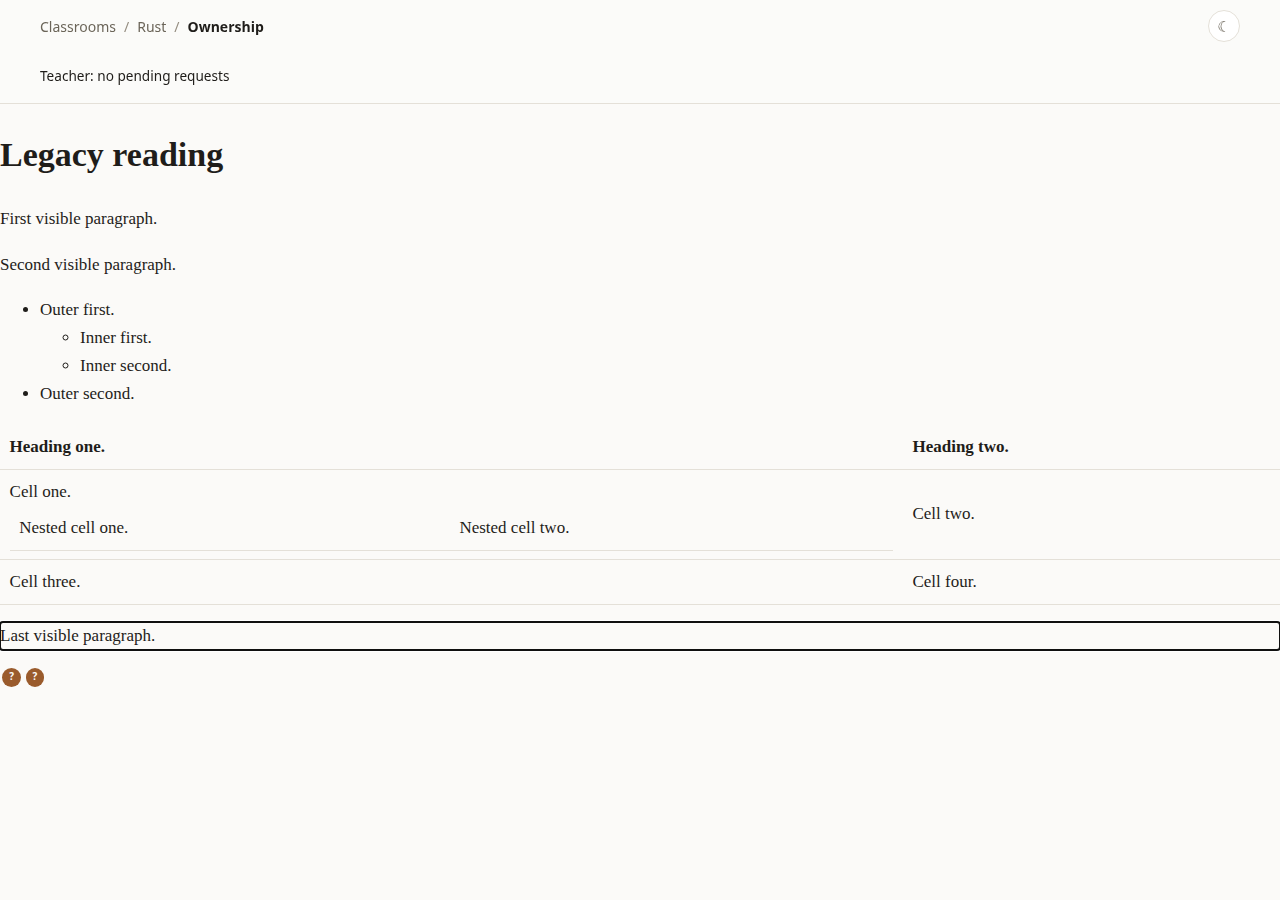
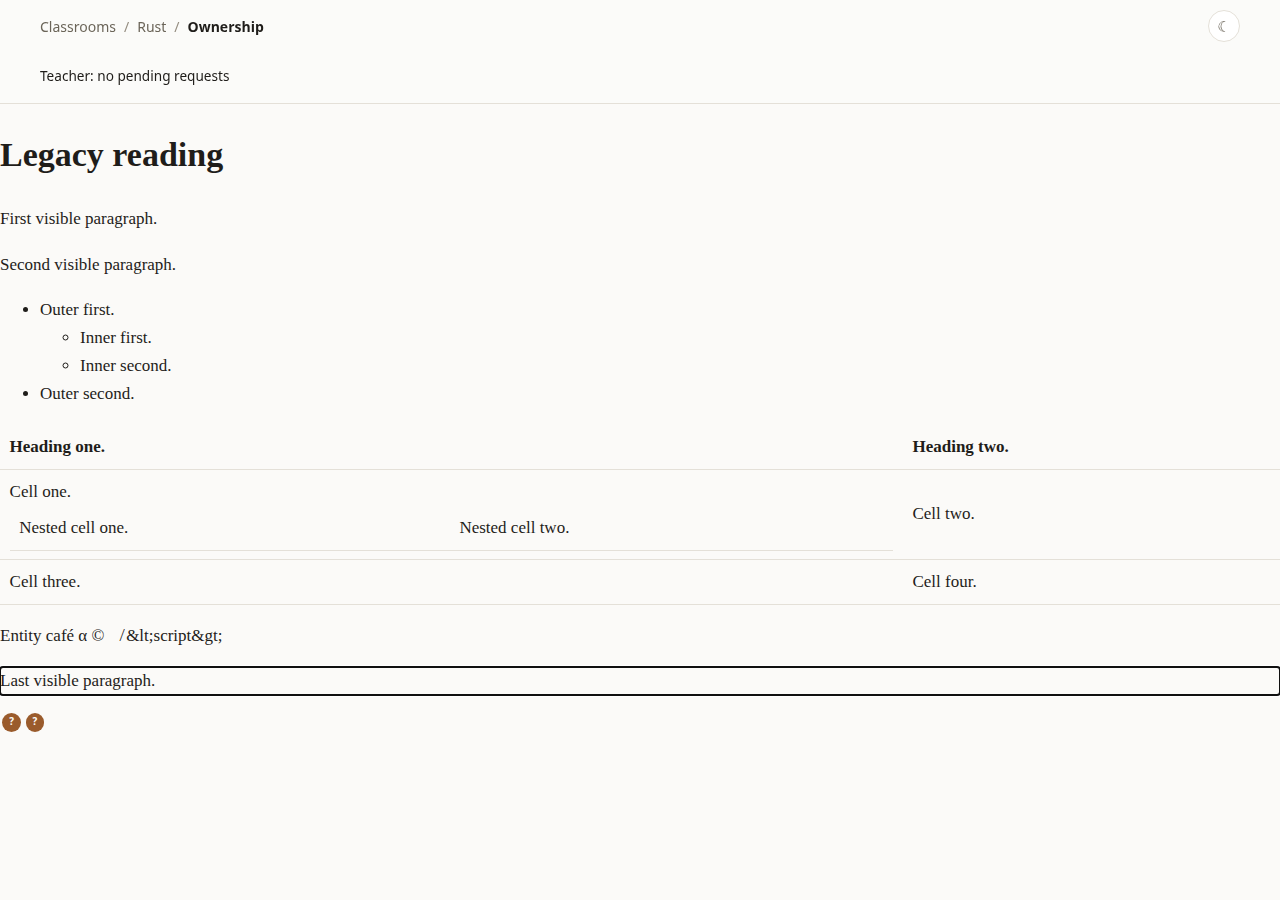
fix(classroom): Parse visible search text with maintained HTML semantics

Changed region(s): [[0.0, 0.6844, 1.0, 0.8089]]

diff --git a/src/search-passages.ts b/src/search-passages.ts
@@ -1,6 +1,7 @@
 /** Inert source parsing for public search. No DOM, scripts, learner code or file reads. */
 import { createHash } from "node:crypto";
-import { decodeHtmlAttribute, htmlAttributes, TAG_ATTRIBUTES } from "./authoring-html.ts";
+import { parse } from "parse5";
+import type { DefaultTreeAdapterTypes, ParserError } from "parse5";
 
 export interface SearchPassage {
   id: string;
@@ -58,22 +59,19 @@ const EXCLUDED = new Set([
   "iframe",
   "object",
 ]);
-// HTML optional end tags, not XML nesting. Scope boundaries keep nested lists,
-// tables and inert template contents from closing an outer source passage.
-const P_END = new Set(
-  "address article aside blockquote details dialog div dl fieldset figcaption figure footer form h1 h2 h3 h4 h5 h6 header hgroup hr main menu nav ol p pre search section table ul".split(
+// End tags the HTML parser may legitimately infer. Preserve the existing required
+// block/inert-element guards without turning extraction into an HTML validator.
+const OPTIONAL_END = new Set(
+  "html head body p li dt dd rt rp optgroup option colgroup caption thead tbody tfoot tr td th".split(
     " ",
   ),
 );
-const EOF_OPTIONAL = new Set(["html", "head", "body", "p"]);
+const MALFORMED_TOKEN =
+  /(?:attribute|eof-in-tag|eof-before-tag-name|eof-in-comment|incorrectly-opened-comment|unexpected-solidus-in-tag|end-tag-with-trailing-solidus)/;
 const RUNTIME =
   /(?:^|\s)(?:cl-(?:header|card-panel|ask-pill|badge-marker|term-pop|contract-error|diagram|teacher|teacher-notice|stepper-runtime|faded-runtime|code-runner|practice-feedback|q-verdict|quiz-footer|answer-report|order-controls|expected))(?:\s|$)/;
 export function canonicalText(text: string): string {
-  return decodeHtmlAttribute(text)
-    .replace(/&nbsp;/gi, " ")
-    .replace(/\s+/g, " ")
-    .trim()
-    .normalize("NFC");
+  return text.replace(/\s+/g, " ").trim().normalize("NFC");
 }
 
 /** Assign ids from canonical quoted text + duplicate occurrence, never source offsets.
@@ -85,110 +83,86 @@ export function searchPassages(html: string): { html: string; passages: SearchPa
     "",
   );
   html = html.replace(/ id="cl-search-[a-f0-9]{24}-[0-9]+"/g, "");
-  interface Node {
-    tag: string;
+  interface Segment {
     start: number;
-    skip: boolean;
     text: string;
-    block: boolean;
     attributeAt?: number;
   }
-  const root: Node = { tag: "@root", start: 0, skip: false, text: "", block: true };
-  const stack: Node[] = [root],
-    found: Array<{ start: number; text: string; attribute: boolean }> = [];
-  const tokens = new RegExp(
-    `<!--[\\s\\S]*?-->|<script\\b${TAG_ATTRIBUTES}>[\\s\\S]*?<\\/script\\s*>|<style\\b${TAG_ATTRIBUTES}>[\\s\\S]*?<\\/style\\s*>|<![^>]*>|<\\/?([a-z][\\w:-]*)\\b${TAG_ATTRIBUTES}>`,
-    "gi",
-  );
-  let cursor = 0;
-  const flush = (node: Node) => {
-    const text = canonicalText(node.text);
-    if (text && !node.skip) {
+  const found: Array<{ start: number; text: string; attribute: boolean }> = [];
+  const document = parse(html, {
+    sourceCodeLocationInfo: true,
+    scriptingEnabled: true,
+    onParseError(error: ParserError) {
+      if (MALFORMED_TOKEN.test(error.code)) throw new Error("Malformed content tag or attribute.");
+    },
+  });
+  const flush = (segment: Segment) => {
+    const text = canonicalText(segment.text);
+    if (text)
       found.push({
-        start: node.attributeAt ?? node.start,
+        start: segment.attributeAt ?? segment.start,
         text,
-        attribute: node.attributeAt !== undefined,
+        attribute: segment.attributeAt !== undefined,
       });
-    }
-    node.attributeAt = undefined;
-    node.text = "";
+    segment.attributeAt = undefined;
+    segment.text = "";
   };
-  const add = (text: string, offset: number) => {
-    if (stack.some((n) => n.skip)) return;
-    if (/<!--|<\/?[a-z][\w:-]*(?:\s|>|\/)/i.test(text))
-      throw new Error("Malformed content tag or attribute.");
-    const node = [...stack].reverse().find((n) => n.block)!;
-    if (!node.text) node.start = offset;
-    node.text += text;
-  };
-  const closeFrom = (index: number) => {
-    for (const node of stack.splice(index)) if (node.block) flush(node);
-  };
-  const closeInScope = (names: string[], boundaries: string[]) => {
-    for (let i = stack.length - 1; i > 0; i--) {
-      const tag = stack[i].tag;
-      if (names.includes(tag)) {
-        closeFrom(i);
-        return;
-      }
-      if (boundaries.includes(tag) || EXCLUDED.has(tag)) return;
-    }
-  };
-  for (const token of html.matchAll(tokens)) {
-    add(html.slice(cursor, token.index), cursor);
-    cursor = token.index + token[0].length;
-    if (!token[1]) continue;
-    const tag = token[1].toLowerCase();
-    if (token[0].startsWith("</")) {
-      const index = stack.map((n) => n.tag).lastIndexOf(tag);
-      if (index < 1) continue;
-      // An unrelated closing tag must never escape an unterminated inert subtree.
-      if (stack.slice(index + 1).some((n) => EXCLUDED.has(n.tag) && n.tag !== "option"))
-        throw new Error("Unclosed content element.");
-      closeFrom(index);
-    } else {
-      if (P_END.has(tag)) closeInScope(["p"], ["table", "td", "th", "button"]);
-      if (tag === "li") closeInScope(["li"], ["ul", "ol", "menu"]);
-      if (tag === "dt" || tag === "dd") closeInScope(["dt", "dd"], ["dl"]);
-      if (tag === "rt" || tag === "rp") closeInScope(["rt", "rp"], ["ruby"]);
-      if (tag === "td" || tag === "th") closeInScope(["td", "th"], ["tr", "table"]);
-      if (tag === "tr") closeInScope(["tr"], ["table"]);
-      if (["tbody", "tfoot", "thead"].includes(tag))
-        closeInScope(["thead", "tbody", "tfoot"], ["table"]);
-      if (["colgroup", "thead", "tbody", "tfoot", "tr"].includes(tag))
-        closeInScope(["caption", "colgroup"], ["table"]);
+  // Validate excluded trees too. A missing template/raw-text close is an error,
+  // never a reason to reveal its contents or silently return a partial index.
+  const validate = (node: DefaultTreeAdapterTypes.Node): void => {
+    if ("tagName" in node) {
+      const location = node.sourceCodeLocation;
       if (
-        tag === "body" ||
-        (!EXCLUDED.has(tag) && !["html", "title", "meta", "link", "base"].includes(tag))
+        location?.startTag &&
+        !location.endTag &&
+        (BLOCKS.has(node.tagName) || EXCLUDED.has(node.tagName)) &&
+        !VOID.has(node.tagName) &&
+        !OPTIONAL_END.has(node.tagName) &&
+        !(
+          node.namespaceURI !== "http://www.w3.org/1999/xhtml" &&
+          /\/\s*>$/.test(html.slice(location.startOffset, location.startTag.endOffset))
+        )
       )
-        closeInScope(["head"], ["html"]);
-      const attrs = htmlAttributes(token[0]);
-      const skip =
-        stack.some((n) => n.skip) ||
-        EXCLUDED.has(tag) ||
-        RUNTIME.test(decodeHtmlAttribute(attrs.get("class") ?? "")) ||
-        /(?:\s)(?:hidden|data-cl-grade|data-cl-pretest-pending)(?=\s|=|\/?>)/i.test(
-          token[0].replace(/"[^"]*"|'[^']*'/g, '""'),
-        ) ||
-        attrs.get("aria-hidden") === "true";
-      const block = BLOCKS.has(tag);
-      if (block && !skip) flush([...stack].reverse().find((n) => n.block)!);
-      if (tag === "br") add(" ", cursor);
-      if (!VOID.has(tag) && !token[0].endsWith("/>"))
-        stack.push({
-          tag,
-          start: cursor,
-          skip,
-          text: "",
-          block,
-          attributeAt: block && !attrs.has("id") ? cursor - 1 : undefined,
-        });
+        throw new Error("Unclosed content element.");
+      if ("content" in node) validate(node.content as DefaultTreeAdapterTypes.DocumentFragment);
     }
-  }
-  add(html.slice(cursor), cursor);
-  if (stack.slice(1).some((n) => !EOF_OPTIONAL.has(n.tag)))
-    throw new Error("Unclosed content element.");
-  closeFrom(1);
+    if ("childNodes" in node) for (const child of node.childNodes) validate(child);
+  };
+  validate(document);
+  const walk = (node: DefaultTreeAdapterTypes.Node, segment: Segment): void => {
+    if ("value" in node) {
+      if (!segment.text) segment.start = node.sourceCodeLocation?.startOffset ?? 0;
+      segment.text += node.value;
+      return;
+    }
+    let own = segment;
+    if ("tagName" in node) {
+      const attrs = new Map(node.attrs.map((a) => [a.name, a.value]));
+      if (
+        EXCLUDED.has(node.tagName) ||
+        RUNTIME.test(attrs.get("class") ?? "") ||
+        ["hidden", "data-cl-grade", "data-cl-pretest-pending"].some((a) => attrs.has(a)) ||
+        attrs.get("aria-hidden") === "true"
+      )
+        return;
+      if (node.tagName === "br") segment.text += " ";
+      if (BLOCKS.has(node.tagName)) {
+        flush(segment);
+        own = {
+          start: node.sourceCodeLocation?.startOffset ?? 0,
+          text: "",
+          attributeAt:
+            !attrs.has("id") && node.sourceCodeLocation?.startTag
+              ? node.sourceCodeLocation.startTag.endOffset - 1
+              : undefined,
+        };
+      }
+    }
+    if ("childNodes" in node) for (const child of node.childNodes) walk(child, own);
+    if (own !== segment) flush(own);
+  };
+  const root: Segment = { start: 0, text: "" };
+  walk(document, root);
   flush(root);
   const occurrences = new Map<string, number>();
   const totals = new Map<string, number>();

diff --git a/scripts/e2e-search-browser.ts b/scripts/e2e-search-browser.ts
@@ -176,7 +176,7 @@ export async function verifySearchBrowser(artifacts: string | null): Promise<voi
     // Valid HTML optional closures must remain readable and resolve each sibling
     // passage independently, including nested list and table scopes.
     const optionalSource =
-      '<!doctype html><html lang="en"><head><meta charset="utf-8"><title>Legacy reading</title></head><body><h1>Legacy reading</h1><p>First visible paragraph.<p>Second visible paragraph.<ul><li>Outer first.<ul><li>Inner first.<li>Inner second.</ul><li>Outer second.</ul><table><thead><tr><th>Heading one.<th>Heading two.<tbody><tr><td>Cell one.<table><tr><td>Nested cell one.<td>Nested cell two.</table><td>Cell two.<tr><td>Cell three.<td>Cell four.</table><p>Last visible paragraph.';
+      '<!doctype html><html lang="en"><head><meta charset="utf-8"><title>Legacy reading</title></head><body><h1>Legacy reading</h1><p>First visible paragraph.<p>Second visible paragraph.<ul><li>Outer first.<ul><li>Inner first.<li>Inner second.</ul><li>Outer second.</ul><table><thead><tr><th>Heading one.<th>Heading two.<tbody><tr><td>Cell one.<table><tr><td>Nested cell one.<td>Nested cell two.</table><td>Cell two.<tr><td>Cell three.<td>Cell four.</table><p>Entity caf&eacute; &alpha; &copy; &NotEqualTilde; &amp;lt;script&amp;gt;<p>Last visible paragraph.';
     f.write("rust/001-ownership/lesson.html", optionalSource);
     const optionalHashes = hashes(f.root);
     report.optionalTags = await playwrightCode(
@@ -185,7 +185,7 @@ export async function verifySearchBrowser(artifacts: string | null): Promise<voi
       `async page=>{
         const sourceResponse=await page.goto(${JSON.stringify(base + "/c/rust/001-ownership")});
         if(sourceResponse.status()!==200)throw new Error('Optional end tags broke public lesson');
-        const cases=[['First visible paragraph.','P'],['Second visible paragraph.','P'],['Inner second.','LI'],['Outer second.','LI'],['Nested cell two.','TD'],['Cell four.','TD'],['Last visible paragraph.','P']];
+        const cases=[['First visible paragraph.','P'],['Second visible paragraph.','P'],['Inner second.','LI'],['Outer second.','LI'],['Nested cell two.','TD'],['Cell four.','TD'],['Entity café α © ≂̸ &lt;script&gt;','P'],['Last visible paragraph.','P']];
         for(const [text,tag]of cases){
           const response=await page.goto(${JSON.stringify(base + "/search?q=")}+encodeURIComponent(text));
           if(response.status()!==200||await page.locator('.cl-search-results h2 a').count()!==1)throw new Error('Optional passage search '+text);
@@ -196,7 +196,7 @@ export async function verifySearchBrowser(artifacts: string | null): Promise<voi
         await page.setViewportSize({width:1280,height:900});await page.evaluate(()=>localStorage.setItem('pi-classroom-theme','light'));await page.reload();
         await page.screenshot({path:${JSON.stringify(path.join(out, "optional-tags.png"))},fullPage:true});
         await page.setViewportSize({width:390,height:844});await page.evaluate(()=>localStorage.setItem('pi-classroom-theme','dark'));await page.goto(${JSON.stringify(base + "/search?q=")});
-        return {status:sourceResponse.status(),exactPassages:cases.length,nestedList:true,nestedTable:true};
+        return {status:sourceResponse.status(),exactPassages:cases.length,nestedList:true,nestedTable:true,html5Entities:true,noDoubleDecode:true};
       }`,
     );
     readonly(optionalHashes, "optional-tags");

diff --git a/test/search.test.ts b/test/search.test.ts
@@ -310,6 +310,19 @@ describe("public classroom search", () => {
   });
 });
 describe("inert canonical source anchors", () => {
+  it("matches visible HTML5 named entities without double decoding literal markup", () => {
+    const source =
+      "<p>Entity caf&eacute; &alpha; &copy; &NotEqualTilde; &amp;lt;script&amp;gt;</p>";
+    const parsed = searchPassages(source);
+    expect(parsed.passages[0].text).toBe("Entity café α © ≂̸ &lt;script&gt;");
+    expect(searchPassages("<p>Entity café α © ≂̸ &amp;lt;script&amp;gt;</p>").passages).toEqual(
+      parsed.passages,
+    );
+    f.write("rust/001-ownership/lesson.html", source);
+    for (const query of ["café", "α", "©", "≂̸", "&lt;script&gt;"])
+      expect(searchClassrooms(query).results[0]?.text).toBe(parsed.passages[0].text);
+    expect(searchClassrooms("<script>").total).toBe(0);
+  });
   it("excludes scripts even with fake tags and preserves inline punctuation", () => {
     const html =
       '<p>Before<script>"</p><p>SECRET"</script> after <code>Vec&lt;T&gt;</code> &#955;.</p>';

diff --git a/.agents/skills/verify-studens/features/search.md b/.agents/skills/verify-studens/features/search.md
@@ -4,7 +4,7 @@ Find public lesson passages, question threads, glossary terms, and learning reco
 
 ## Sub-features
 
-- Literal Unicode and code-punctuation queries; escaped snippets and highlighted matches.
+- Literal Unicode, HTML5 named entities and code-punctuation queries; escaped snippets and highlighted matches without double decoding.
 - Four source types, deterministic ordering, counts, and explicit pagination.
 - Canonical passage anchors, question-card links, accepted glossary term views, and record passages.
 - Honest context for orphaned questions and unavailable edited/deleted sources.
@@ -23,10 +23,12 @@ The browser suite invokes `scripts/e2e-search-browser.ts` through `npm run verif
 
 Use the shared launch and doctor instructions. Search uses a labelled searchbox and a Search button. `.cl-search-results h2 a` opens each exact source; native `#cl-search-…` anchors identify canonical source text, while `#cl-question-…` identifies a saved card. Inspect the search folder's `result.json`, `*-hashes.json`, destinations and desktop/mobile light/dark screenshots.
 
-The harness checks all four domains in two classrooms, keyboard entry and Back/query preservation, literal Unicode/code punctuation and rendered math, safe snippets and glossary sources, empty/no-results, 40/40/10 pagination and clearing, private exact queries, malformed glossary/error/explicit retry, symlink/traversal guards including published-review pretest history, changed repeated passages, deleted cards and unavailable sources. Legacy HTML with optional paragraph/body/html, nested list, and table end tags must serve successfully and open seven separate exact passages; compare visible text because injected scripts can be children of an unclosed final paragraph. Search-only reads must leave classroom hashes unchanged and make no teacher calls or write requests. It also submits a real pretest through a fixture grading boundary and follows the released search passage, then exercises ordinary Ask and graded-quiz persistence.
+The harness checks all four domains in two classrooms, keyboard entry and Back/query preservation, literal Unicode/code punctuation and rendered math, safe snippets and glossary sources, empty/no-results, 40/40/10 pagination and clearing, private exact queries, malformed glossary/error/explicit retry, symlink/traversal guards including published-review pretest history, changed repeated passages, deleted cards and unavailable sources. Legacy HTML with optional paragraph/body/html, nested list, and table end tags must serve successfully and open eight separate exact passages, including HTML5 named entities and literal encoded markup without double decoding; compare visible text because injected scripts can be children of an unclosed final paragraph. Search-only reads must leave classroom hashes unchanged and make no teacher calls or write requests. It also submits a real pretest through a fixture grading boundary and follows the released search passage, then exercises ordinary Ask and graded-quiz persistence.
 
 `npx vitest run test/search.test.ts` checks the source projection contracts, malformed content, canonical repeated-text identity, publication/version gates, and private-file guards.
 
 ## Gotchas
 
 Fixture teacher and grade callbacks prove browser, HTTP and stored-state behavior, not model answers. No search index is persisted. A malformed source fails the whole query with an explicit retry; no partial index or automatic retry hides it. An edit to the public passage sequence invalidates its repeated-text anchors so a stale result cannot jump to another occurrence. Query text is preserved, including a private-canary string supplied by the tester; it must produce no private hit or private metadata.
+
+Extraction uses parse5 as an inert HTML tree parser, never a DOM or code runner. Authored HTML is preserved; parser locations only insert anchors, while canonical visible text defines identity. Parser/bootstrap dependency changes also require the clean production-launcher recipe in [teacher.md](teacher.md), actual installed versions and production audit.
